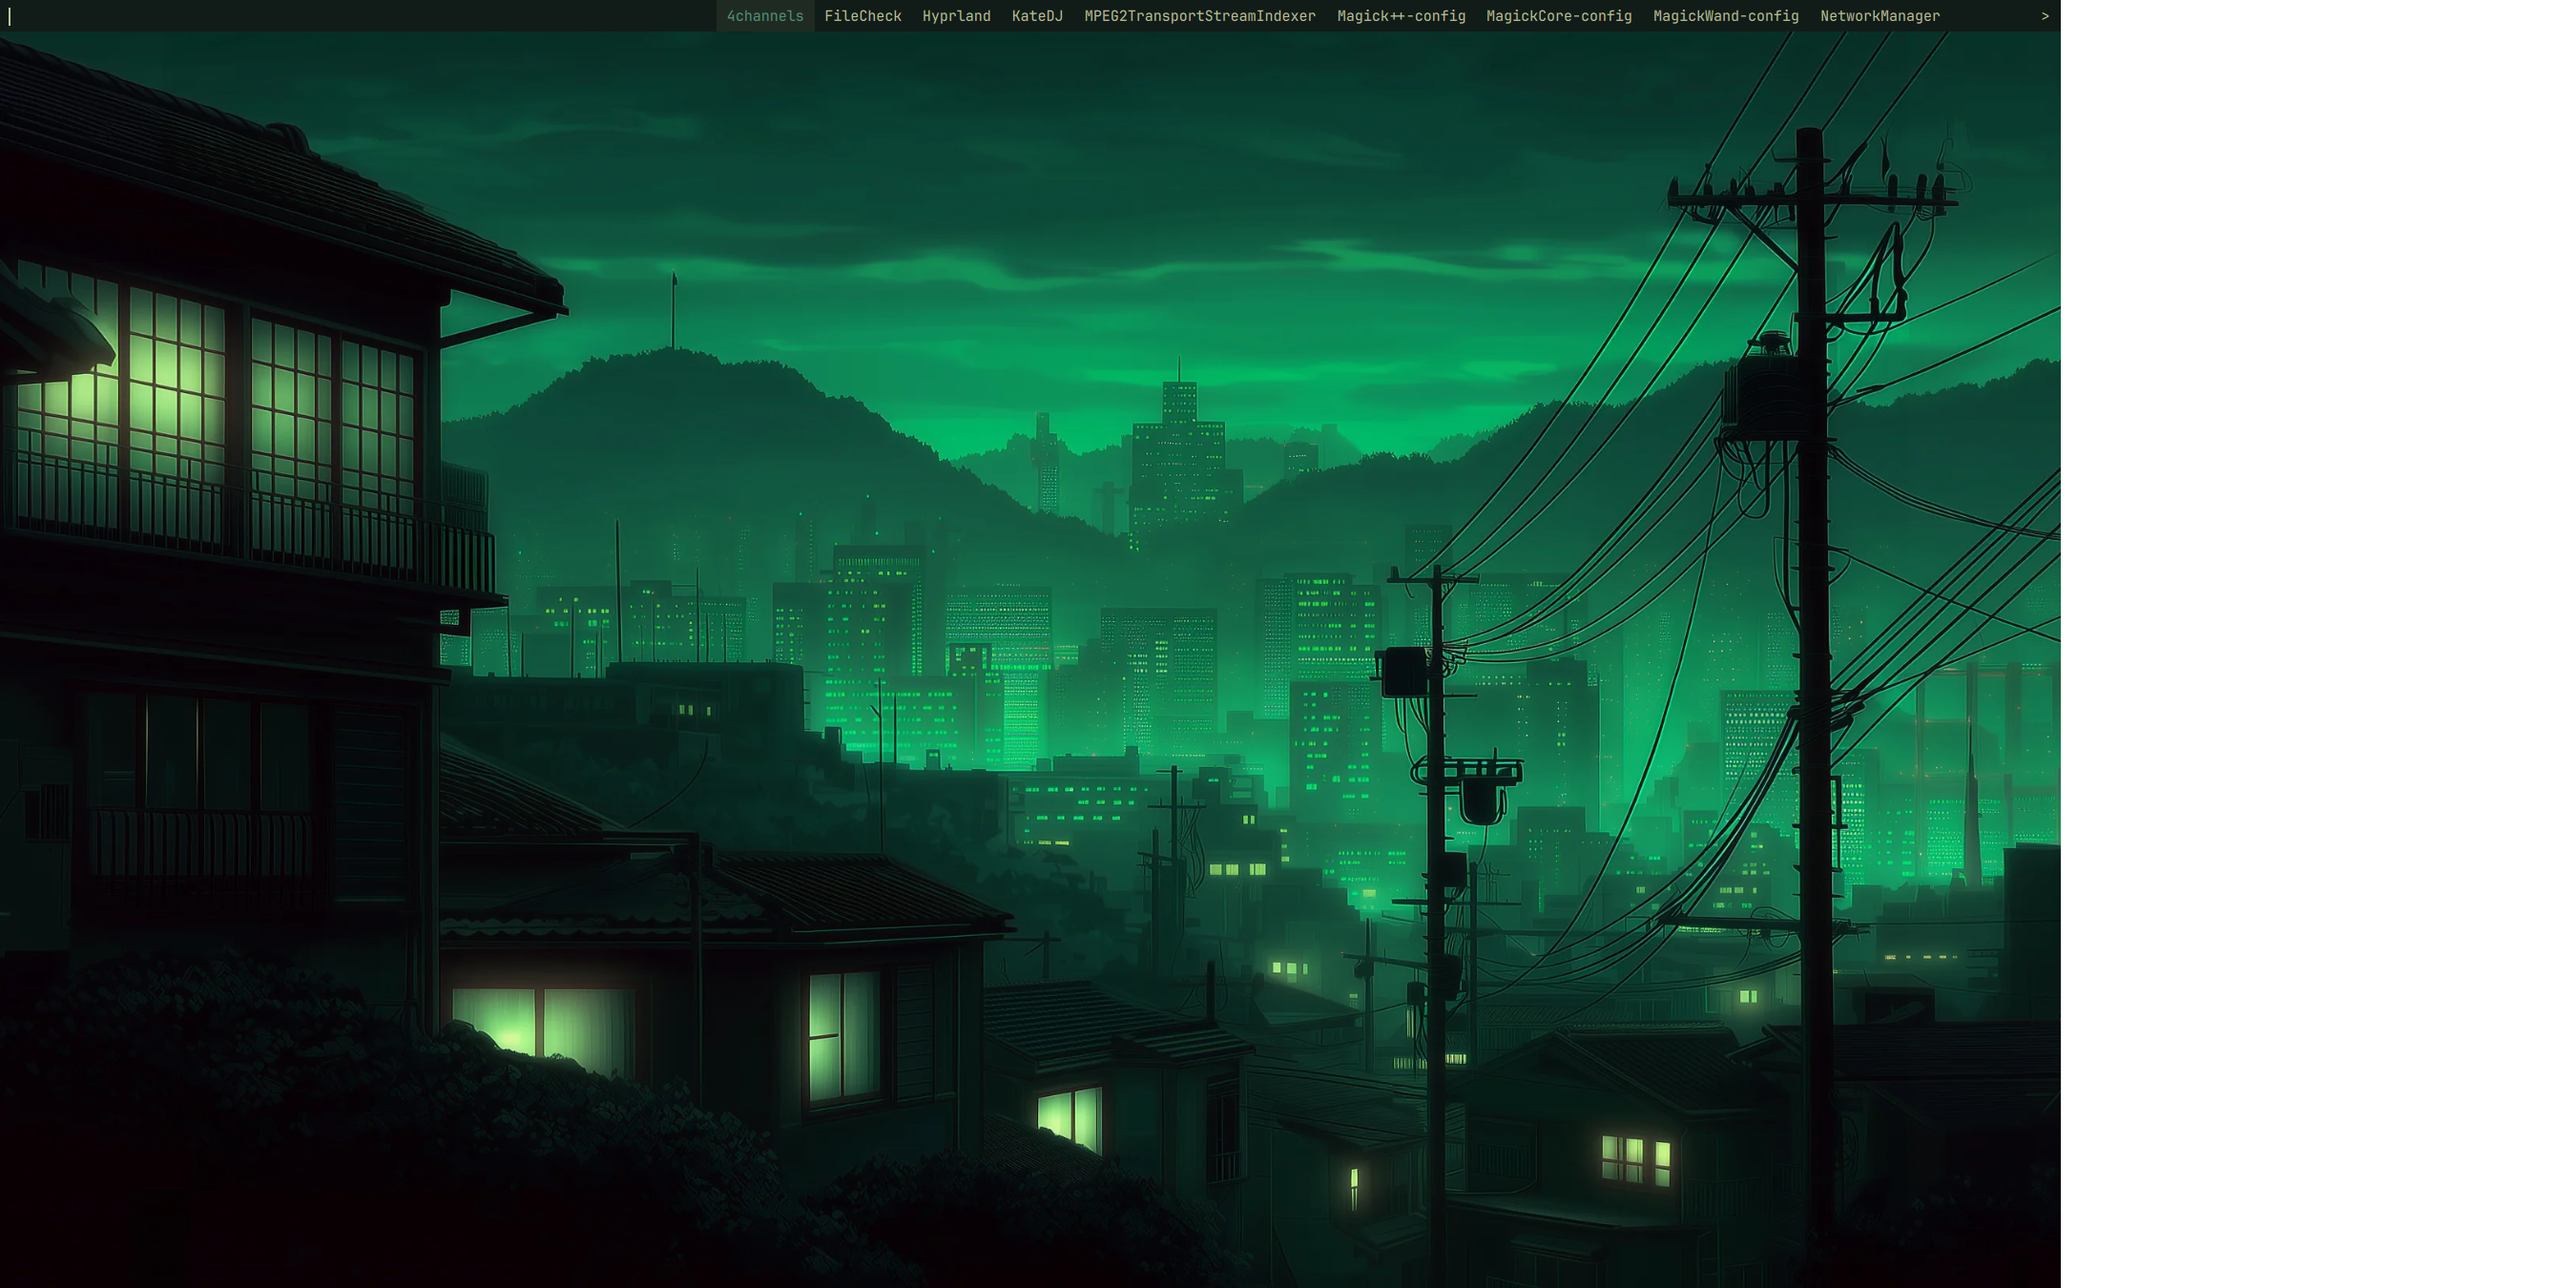
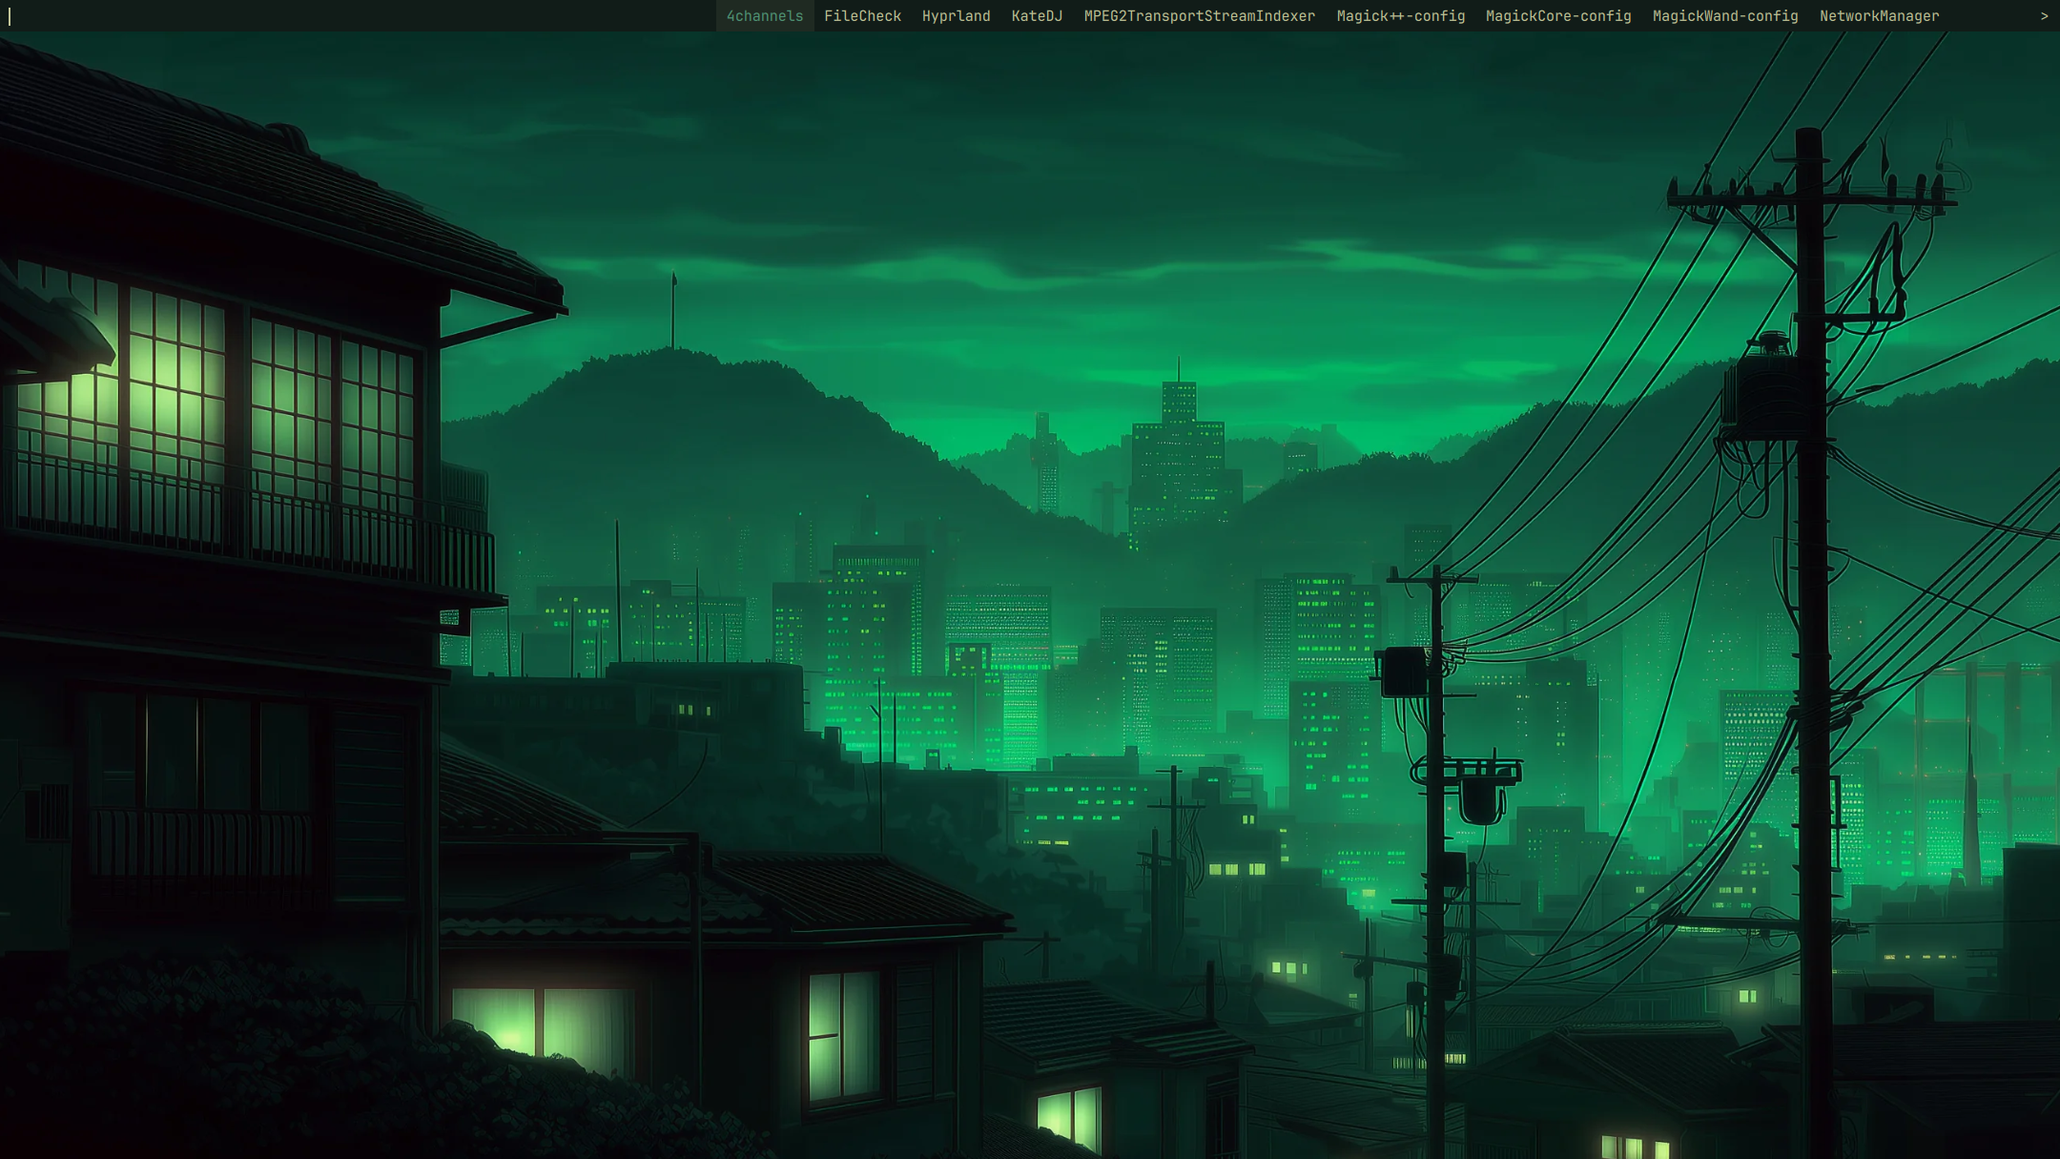
Fix preview screenshot aspect ratio

diff --git a/README.md b/README.md
@@ -4,7 +4,7 @@ A [dmenu](https://tools.suckless.org/dmenu/) port for the Omarchy shell.
 
 It reads a list from standard input and writes your selection to standard output.
 
-![dmenu_run on an empty Omarchy workspace](preview.png?raw=true&v=2)
+![dmenu_run on an empty Omarchy workspace](preview.png?raw=true&v=3)
 
 ## Requirements
 
